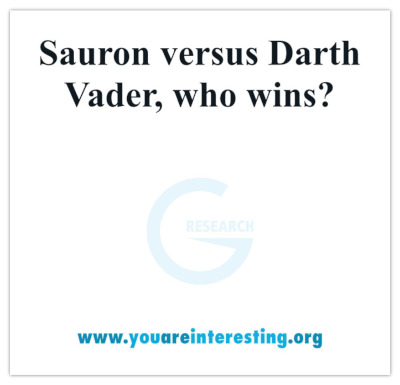
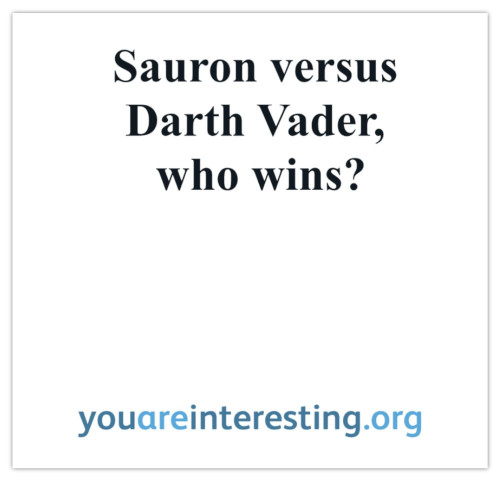
simplify website and message

diff --git a/content/en/what-and-why.md b/content/en/what-and-why.md
@@ -4,25 +4,14 @@ date: "2022-09-28T08:01:09-07:00"
 draft: false
 description: "What is this about"
 ---
-This is about human connection. I will provide a choice of prompts for conversation. We will see where it leads. 
+I will provide a choice of prompts for conversation. We will see where it leads. That's it.
 
 Here is an example:
 
 ![example prompt](img/post-it-note-example.jpeg)
 
-This is an experiment in trying to foster fun little conversations at a tech conference – something small and simple can have a positive and meaningful impact.
-
-# Where is this going down?
-The first iteration of this experiment is taking place at [KubeCon](https://events.linuxfoundation.org/kubecon-cloudnativecon-north-america/).
-
 # Why is this happening?
-
-I made this happen because [I work for a company](http://www.gresearchoss.io) that values passion and creativity, and my co-workers encouraged me to execute on my idea. I did this because I really wanted to, and felt highly supported in the process. I work with great people from all over the world who do freaking cool things in open source.
 
 My favorite great ideas are simple. Ones that are fun and make you think, "I could do that." Easy to replicate. I hope that "You are Interesting" is that.
 
-## Please, no tech talk
-
-![No tech talk](img/no-tech-talk.jpg)
-
-Having a "no tech talk" rule increases the oportunity for a connection to occur between us. It also tickles me in all the right places.
+I also really enjoy people and connection, so I'm attempting to create a fun safe space for that.
